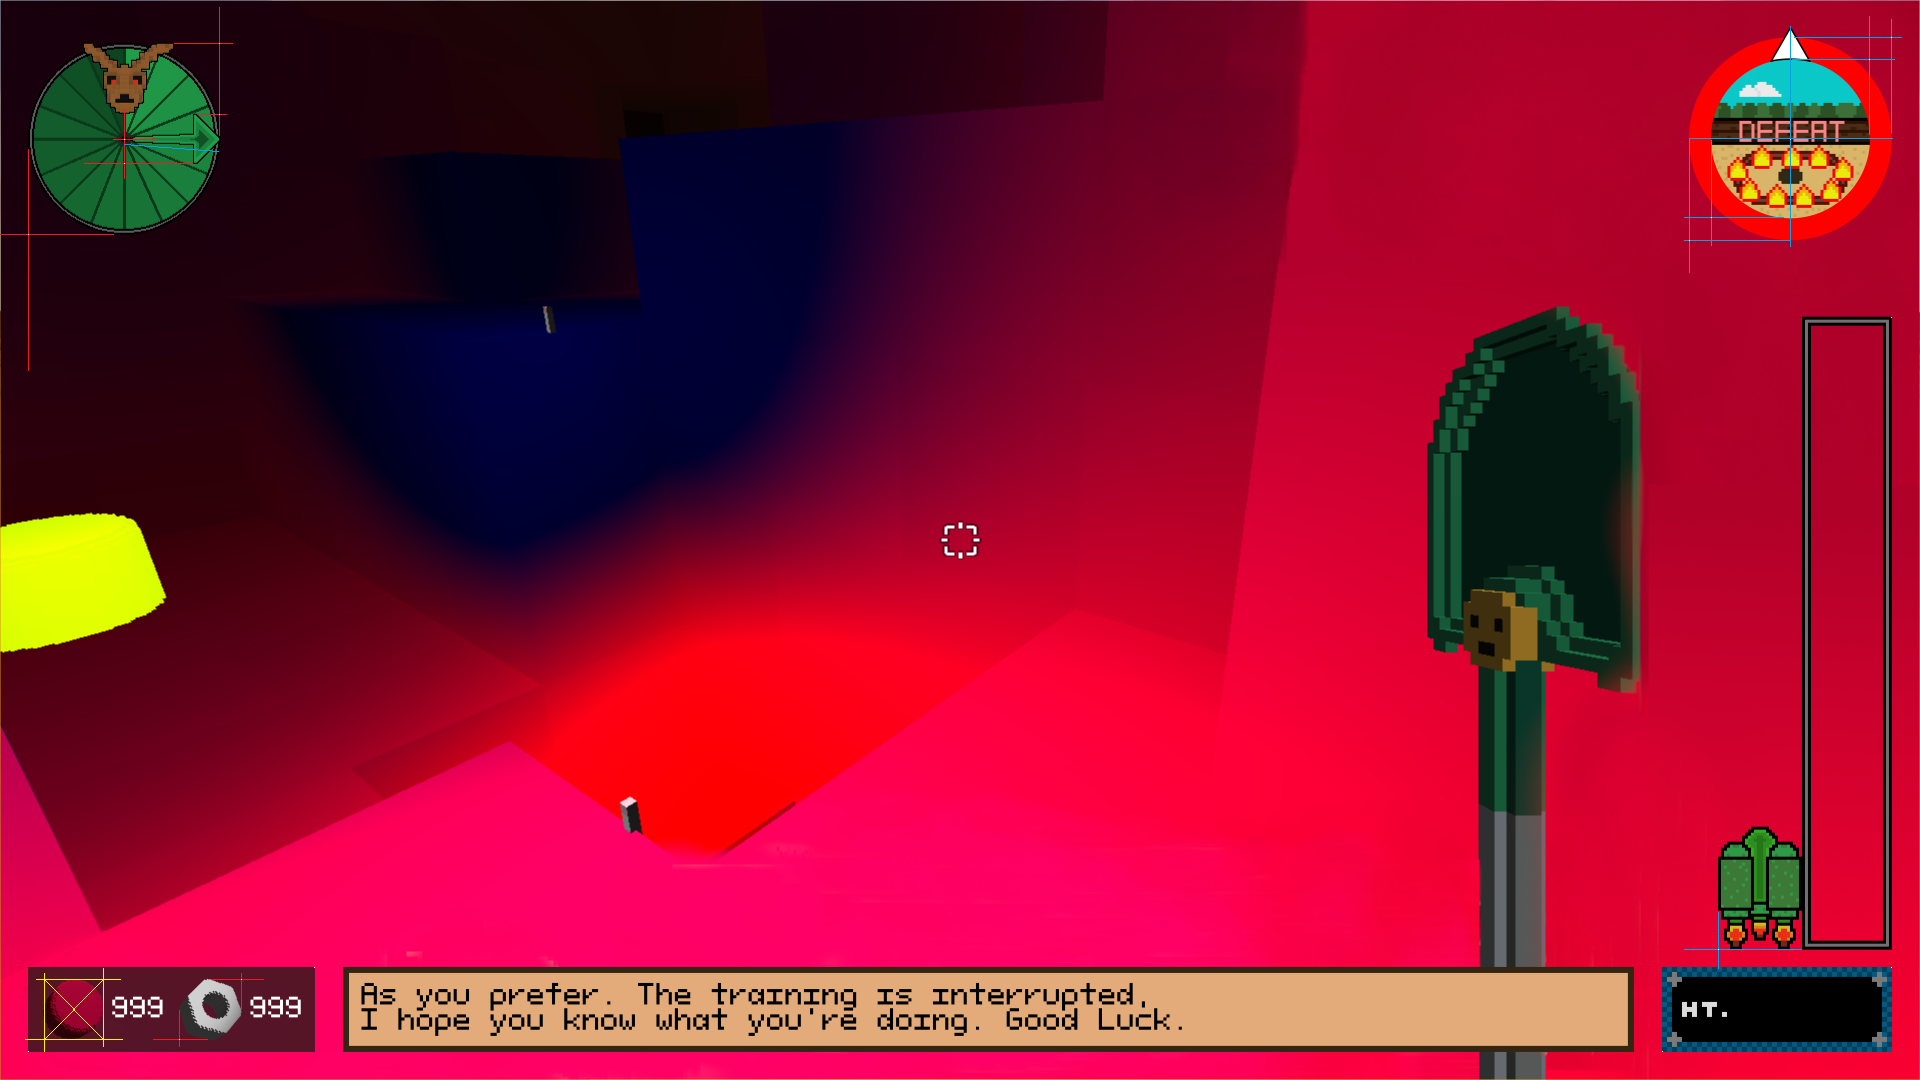
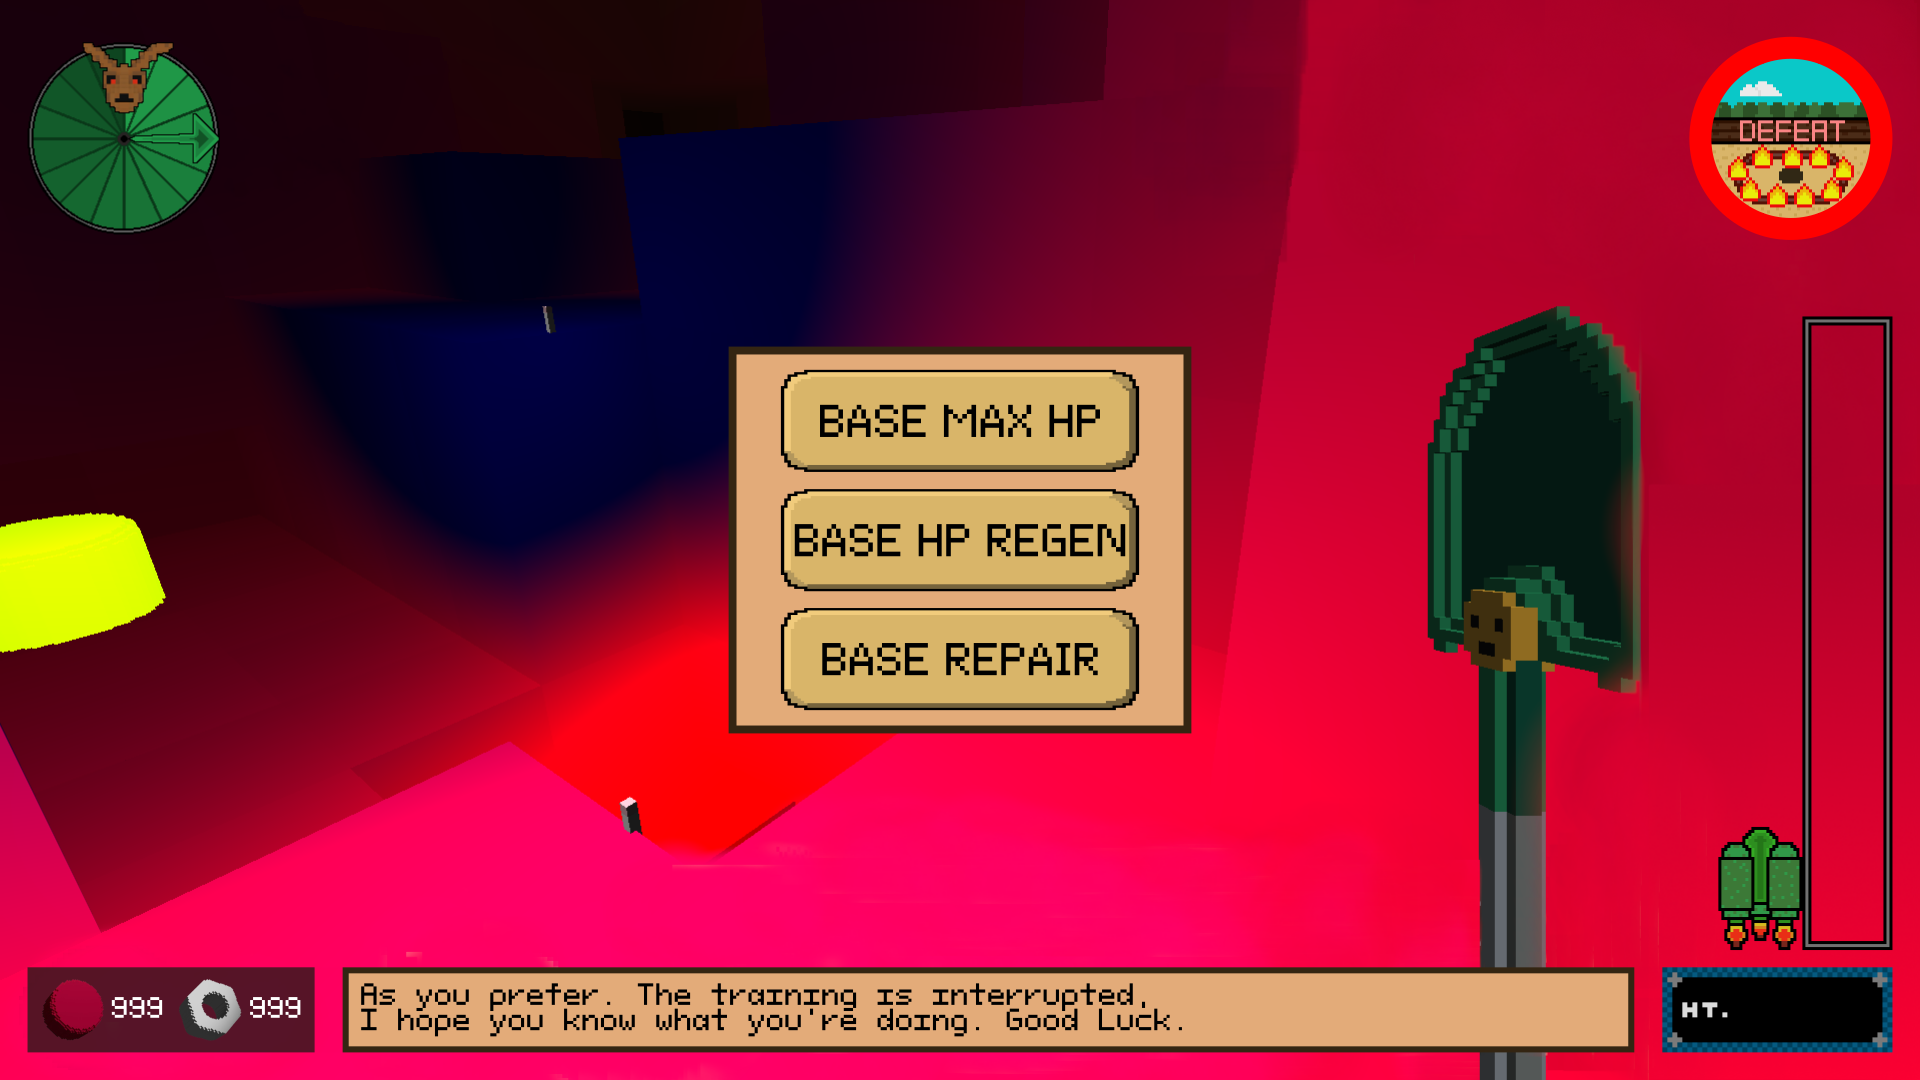
Upgrade menus and some fixes.

diff --git a/src/HUD/Pages/PlayerUpgradeMenu/PlayerUpgradeMenu.cpp b/src/HUD/Pages/PlayerUpgradeMenu/PlayerUpgradeMenu.cpp
@@ -1,11 +1,61 @@
 #include "PlayerUpgradeMenu.h"
+#include "Managers/UpgradeManager.h"
 
 void PlayerUpgradeMenu::Init() {
+    SetBackgroundImagePath(_backgroundImagePath);
+    SetCorners(CoordsConverter::ConvertCoords(glm::vec2(729, 794)), CoordsConverter::ConvertCoords(glm::vec2(1190, 285)));
+    SetupButtons();
+    _capacityUpgradeButton->Init();
+    _reachUpgradeButton->Init();
+    _radiusUpgradeButton->Init();
+    _speedUpgradeButton->Init();
     Page::Init();
 }
 
 void PlayerUpgradeMenu::Update() {
-    if(_shouldRender){
+    if (_shouldRender) {
         Page::Update();
+        _capacityUpgradeButton->Update();
+        _reachUpgradeButton->Update();
+        _radiusUpgradeButton->Update();
+        _speedUpgradeButton->Update();
     }
+}
+
+void PlayerUpgradeMenu::SetupButtons() {
+    _capacityUpgradeButton = std::make_shared<Button>("res/Images/UpgradeMenus/jetpack_capacity.png",
+                                                      "res/Images/UpgradeMenus/jetpack_capacity_hover.png",
+                                                      "res/Images/UpgradeMenus/jetpack_capacity_clicked.png",
+                                                      CoordsConverter::ConvertCoords(glm::vec2(781, 411)),
+                                                      CoordsConverter::ConvertCoords(glm::vec2(1138, 310)),
+                                                      [this]() {
+                                                       UPGRADEMANAGER.UpgradeJetpackCapacity();
+                                                   });
+
+    _reachUpgradeButton = std::make_shared<Button>("res/Images/UpgradeMenus/mining_reach.png",
+                                                   "res/Images/UpgradeMenus/mining_reach_hover.png",
+                                                   "res/Images/UpgradeMenus/mining_reach_clicked.png",
+                                                   CoordsConverter::ConvertCoords(glm::vec2(781, 530)),
+                                                   CoordsConverter::ConvertCoords(glm::vec2(1138, 429)),
+                                                   [this]() {
+                                                  UPGRADEMANAGER.UpgradeMiningReach();
+                                              });
+
+    _radiusUpgradeButton = std::make_shared<Button>("res/Images/UpgradeMenus/mining_radius.png",
+                                                    "res/Images/UpgradeMenus/mining_radius_hover.png",
+                                                    "res/Images/UpgradeMenus/mining_radius_clicked.png",
+                                                    CoordsConverter::ConvertCoords(glm::vec2(781, 649)),
+                                                    CoordsConverter::ConvertCoords(glm::vec2(1138, 548)),
+                                                    [this]() {
+                                                 UPGRADEMANAGER.UpgradeMiningRadius();
+                                             });
+
+    _speedUpgradeButton = std::make_shared<Button>("res/Images/UpgradeMenus/mining_speed.png",
+                                                    "res/Images/UpgradeMenus/mining_speed_hover.png",
+                                                    "res/Images/UpgradeMenus/mining_speed_clicked.png",
+                                                    CoordsConverter::ConvertCoords(glm::vec2(781, 769)),
+                                                    CoordsConverter::ConvertCoords(glm::vec2(1138, 668)),
+                                                    [this]() {
+                                                 UPGRADEMANAGER.UpgradeMiningSpeed();
+                                             });
 }

diff --git a/src/HUD/Pages/DomeUpgradeMenu/DomeUpgradeMenu.cpp b/src/HUD/Pages/DomeUpgradeMenu/DomeUpgradeMenu.cpp
@@ -1,11 +1,50 @@
 #include "DomeUpgradeMenu.h"
+#include "Managers/UpgradeManager.h"
 
 void DomeUpgradeMenu::Init() {
+    SetBackgroundImagePath(_backgroundImagePath);
+    SetCorners(CoordsConverter::ConvertCoords(glm::vec2(729, 732)), CoordsConverter::ConvertCoords(glm::vec2(1190, 347)));
+    SetupButtons();
+    _maxHPUpgradeButton->Init();
+    _HPRegenButton->Init();
+    _repairButton->Init();
     Page::Init();
 }
 
 void DomeUpgradeMenu::Update() {
-    if(_shouldRender){
+    if (_shouldRender) {
         Page::Update();
+        _maxHPUpgradeButton->Update();
+        _HPRegenButton->Update();
+        _repairButton->Update();
     }
+}
+
+void DomeUpgradeMenu::SetupButtons() {
+    _maxHPUpgradeButton = std::make_shared<Button>("res/Images/UpgradeMenus/base_maxhp.png",
+                                                   "res/Images/UpgradeMenus/base_maxhp_hover.png",
+                                                   "res/Images/UpgradeMenus/base_maxhp_clicked.png",
+                                                   CoordsConverter::ConvertCoords(glm::vec2(781, 471)),
+                                                   CoordsConverter::ConvertCoords(glm::vec2(1138, 370)),
+                                                   [this]() {
+                                                       UPGRADEMANAGER.UpgradeDomeHp();
+                                                   });
+
+    _HPRegenButton = std::make_shared<Button>("res/Images/UpgradeMenus/base_maxhp.png",
+                                              "res/Images/UpgradeMenus/base_maxhp_hover.png",
+                                              "res/Images/UpgradeMenus/base_maxhp_clicked.png",
+                                              CoordsConverter::ConvertCoords(glm::vec2(781, 590)),
+                                              CoordsConverter::ConvertCoords(glm::vec2(1138, 489)),
+                                              [this]() {
+                                                  UPGRADEMANAGER.UpgradeDomeHPRegen();
+                                              });
+
+    _repairButton = std::make_shared<Button>("res/Images/UpgradeMenus/base_maxhp.png",
+                                             "res/Images/UpgradeMenus/base_maxhp_hover.png",
+                                             "res/Images/UpgradeMenus/base_maxhp_clicked.png",
+                                             CoordsConverter::ConvertCoords(glm::vec2(781, 709)),
+                                             CoordsConverter::ConvertCoords(glm::vec2(1138, 608)),
+                                             [this]() {
+                                                 UPGRADEMANAGER.DomeHPRepair();
+                                             });
 }

diff --git a/src/HUD/PageManager.cpp b/src/HUD/PageManager.cpp
@@ -51,26 +51,37 @@ void PageManager::CheckInputs() {
             GAMEMANAGER.Pause();
         } else {
             GAMEMANAGER.Unpause();
+            _isInUpgradeMenu = false;
         }
     } else if (INPUT.IsKeyPressed(GLFW_KEY_ESCAPE) && _isInPage) {
         _isInPage = false;
         CloseAllPages();
         GAMEMANAGER.Unpause();
+        _isInUpgradeMenu = false;
     }
 
     if (INPUT.IsKeyPressed(GLFW_KEY_E) && !_pauseMenuPage->_shouldRender && UPGRADEMANAGER.IsPlayerStationInRange() && UPGRADEMANAGER.IsPlayerStationInRaycast()) {
         if (!_isInPage) {
             _isInPage = true;
             _playerUpgradeMenu->_shouldRender = true;
+            GAMEMANAGER.EnableMouse();
+            HUD._shouldShowCrosshair = false;
+            _isInUpgradeMenu = true;
         }
         else if(TUTORIALMANAGER._actualMessage == 8){
             CloseAllPages();
             _isInPage = true;
             _playerUpgradeMenu->_shouldRender = true;
+            GAMEMANAGER.EnableMouse();
+            HUD._shouldShowCrosshair = false;
+            _isInUpgradeMenu = true;
         }
         else {
             _isInPage = false;
             CloseAllPages();
+            GAMEMANAGER.DisableMouse();
+            HUD._shouldShowCrosshair = true;
+            _isInUpgradeMenu = false;
         }
         //it has to be this order because isTurretInRange won't work with index -1
     } else if (INPUT.IsKeyPressed(GLFW_KEY_E) && !_pauseMenuPage->_shouldRender && UPGRADEMANAGER.IsTurretInRaycast() && UPGRADEMANAGER.IsTurretInRange()) {
@@ -90,15 +101,24 @@ void PageManager::CheckInputs() {
         if (!_isInPage) {
             _isInPage = true;
             _domeUpgradeMenu->_shouldRender = true;
+            GAMEMANAGER.EnableMouse();
+            HUD._shouldShowCrosshair = false;
+            _isInUpgradeMenu = true;
         }
         else if(TUTORIALMANAGER._actualMessage == 8){
             CloseAllPages();
             _isInPage = true;
             _playerUpgradeMenu->_shouldRender = true;
+            GAMEMANAGER.EnableMouse();
+            HUD._shouldShowCrosshair = false;
+            _isInUpgradeMenu = true;
         }
         else {
             _isInPage = false;
             CloseAllPages();
+            GAMEMANAGER.DisableMouse();
+            HUD._shouldShowCrosshair = true;
+            _isInUpgradeMenu = false;
         }
     }
 

diff --git a/src/Component/PlayerController.cpp b/src/Component/PlayerController.cpp
@@ -4,6 +4,7 @@
 #include "Core/Node.h"
 #include "Managers/GameManager.h"
 #include "ShovelController.h"
+#include "HUD/PageManager.h"
 
 PlayerController::PlayerController(float speed, float gravity, float jumpHeight, float groundLevel, float reach, int radius, float width, float height, float digPower)
     : _speed(speed), _gravity(gravity), _jumpHeight(jumpHeight), _groundLevel(groundLevel), _isGrounded(false), _velocity(glm::vec3(0.0f)), _inputVector(glm::vec2(0.0f)), _reach(reach), _radius(radius), _width(width), _height(height), _digPower(digPower),
@@ -61,7 +62,10 @@ void PlayerController::Input() {
 }
 
 void PlayerController::Update() {
-    if(!GAMEMANAGER._paused){
+    if(GAMEMANAGER._paused || PAGEMANAGER._isInUpgradeMenu){
+        _ownerNode->GetComponent<PlayerAudioController>()->StopSteps();
+        return;
+    }else{
         HandleMovement();
         HandleGlowstick();
     }

diff --git a/src/HUD/Pages/PlayerUpgradeMenu/PlayerUpgradeMenu.h b/src/HUD/Pages/PlayerUpgradeMenu/PlayerUpgradeMenu.h
@@ -1,10 +1,22 @@
 #pragma once
 
 #include "HUD/Pages/Page.h"
+#include "HUD/Buttons/Button.h"
+#include "HUD/CoordsConverter.h"
 
 class PlayerUpgradeMenu : public Page  {
 public:
     void Init() override;
 
     void Update() override;
+
+    const char* _backgroundImagePath = "res/Images/UpgradeMenus/update_background1.png";
+
+    std::shared_ptr<Button> _capacityUpgradeButton;
+    std::shared_ptr<Button> _reachUpgradeButton;
+    std::shared_ptr<Button> _radiusUpgradeButton;
+    std::shared_ptr<Button> _speedUpgradeButton;
+
+private:
+    void SetupButtons();
 };

diff --git a/src/HUD/Pages/DomeUpgradeMenu/DomeUpgradeMenu.h b/src/HUD/Pages/DomeUpgradeMenu/DomeUpgradeMenu.h
@@ -1,10 +1,21 @@
 #pragma once
 
 #include "HUD/Pages/Page.h"
+#include "HUD/Buttons/Button.h"
+#include "HUD/CoordsConverter.h"
 
 class DomeUpgradeMenu : public Page  {
 public:
     void Init() override;
 
     void Update() override;
+
+    const char* _backgroundImagePath = "res/Images/UpgradeMenus/update_background1.png";
+
+    std::shared_ptr<Button> _maxHPUpgradeButton;
+    std::shared_ptr<Button> _HPRegenButton;
+    std::shared_ptr<Button> _repairButton;
+
+private:
+    void SetupButtons();
 };

diff --git a/src/HUD/HUDMain.cpp b/src/HUD/HUDMain.cpp
@@ -127,7 +127,7 @@ void HUDMain::Update() {
 
     //jetpack
     if(_shouldShowFuel && _isAfterTutorialFuel){
-        int imageIndex = static_cast<int>((_playerNode->GetComponent<PlayerController>()->_jetpackFuel / 100.0f) * 20.0f);
+        int imageIndex = static_cast<int>((_playerNode->GetComponent<PlayerController>()->_jetpackFuel / _playerNode->GetComponent<PlayerController>()->_maxJetpackFuel) * 20.0f);
         _jetpackImages[imageIndex]->Render();
     }
 

diff --git a/src/HUD/PageManager.h b/src/HUD/PageManager.h
@@ -47,6 +47,8 @@ public:
     void CloseAllOtherPages(const shared_ptr<Page>& pageException);
 
     void CloseAllPages();
+
+    bool _isInUpgradeMenu = false;
 };
 
 
